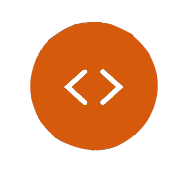
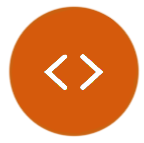
worked on Services section, edited images and css, html

diff --git a/css/main.css b/css/main.css
@@ -23,6 +23,11 @@ body {
   width: 600px;
 }
 
+.third-width {
+  float: left;
+  width: 400px;
+}
+
 /*****HEADER*****/
 header {
   height: 100px;
@@ -91,7 +96,58 @@ main h2 {
 
 #services {
   clear: both;
-  height: 400px;
+  height: 500px;
+  background-color: #ffac6c;
+  margin: 40px 15px 40px 110px;
+  padding: 25px 0 0 0;
+  width: 1200px;
+}
+
+#services-left.third-width img {
+  padding-left: 115px;
+  padding-right: 75px;
+}
+
+#services-center.third-width img {
+  padding-left: 115px;
+  padding-right: 75px;
+}
+
+#services-right.third-width img {
+  padding-left: 95px;
+  padding-right: 50px;
+}
+
+#services img {
+  padding: 15px 50px 30px 50px;
+  width: 150px;
+}
+
+/*****#services-left.third-width img {
+  padding-left: 0px;
+}
+*****/
+
+#services-left.third-width h3 {
+  padding-left: 135px;
+}
+
+#services-center.third-width h3 {
+  padding-left: 105px;
+}
+
+#services-right.third-width h3 {
+  padding-left: 90px;
+}
+
+#services h3 {
+  font-size: 24px;
+  /*****padding: 0 0 0 100px;*****/
+  margin-top: 5px;
+}
+
+#services p {
+  text-align: center;
 }
 
 /*****.no-bullet {
@@ -151,7 +207,8 @@ THIS IS THE ONE I WANT:
 <img src="img/tech-icon.png" alt="graphic of code">
 *****/
 
-#services img {
+/*****#services img {
   padding-left: 40px;
   width: 30px;
 }
+*****/

diff --git a/index.html b/index.html
@@ -52,7 +52,7 @@
 
         <section id="services">
           <div class="full-width">
-            <h2>Services</h2>
+            <!--<h2>Services</h2>-->
             <!--CODE THAT DIDN'T WORK FOR BULLETED LIST
             <ul>
               <li class="office-icon">Office Space</li>
@@ -61,8 +61,22 @@
               <li class="tech-icon">Tech Resources</li>
             </ul>
             -->
-              <img src="img/tech-icon.png" alt="tech icon with code">
-              <p>Tech Resources</p>
+              <div class="third-width" id="services-left">
+                <img src="img/office-space-icon.png" alt="icon of building">
+                <h3>Office Space</h3>
+              </div>
+
+              <div class="third-width" id="services-center">
+                <img src="img/recruiting-icon.png" alt="icon with people">
+                <h3>Business Support</h3>
+              </div>
+
+              <div class="third-width" id="services-right">
+                <img src="img/tech-icon-orange.png" alt="tech icon with code">
+                <h3>Tech Resources</h3>
+              </div>
+
+
           </div>
         </section>
 
